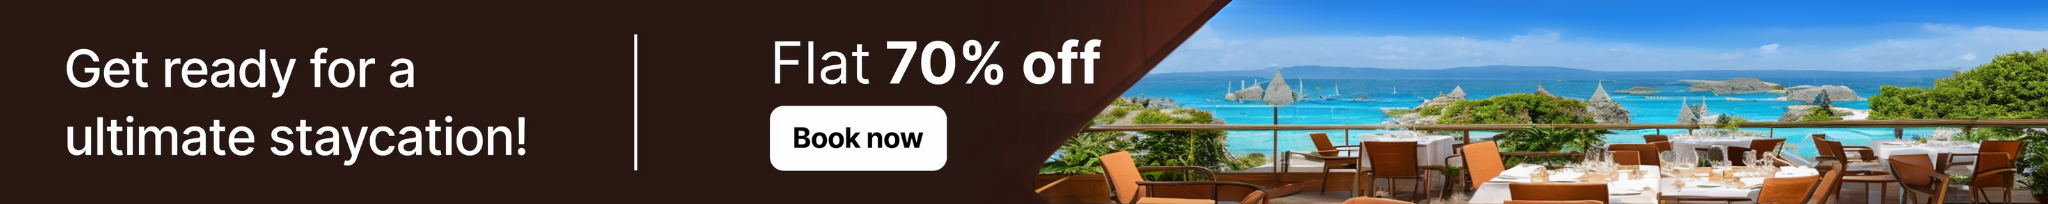
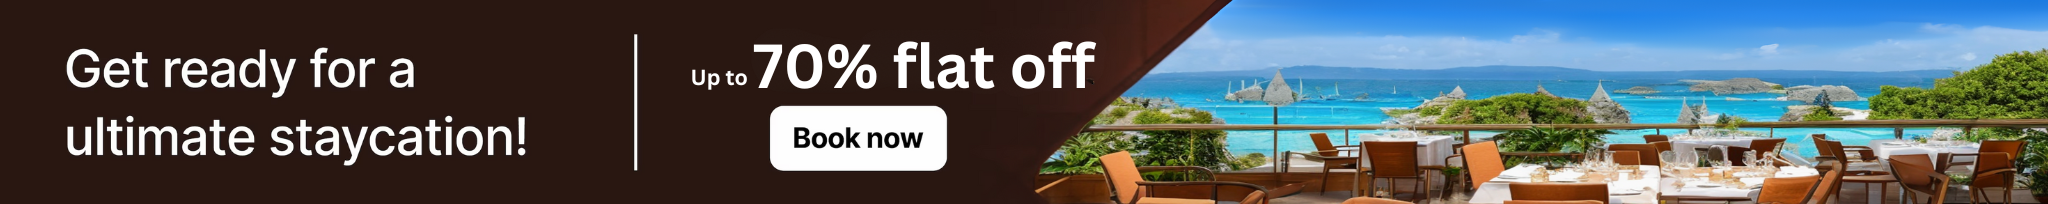
fixed issues

Changed region(s): [[0.3125, 0.1765, 0.5625, 0.4412]]

diff --git a/src/components/Shared/DesktopScrroledNavbar.tsx b/src/components/Shared/DesktopScrroledNavbar.tsx
@@ -16,10 +16,13 @@ interface Props {
   handleIncreaseGuest: (index: number) => void;
   handleDeleteRoom: () => void;
   handleAddRoom: () => void;
+  handleLocationSearch:(event:any)=>void;
   dateFormatter: string;
+  searchedLocation:string;
   RangePicker: any; // You should replace `any` with the actual type of RangePicker
   setFormattedDates: (dates: string[]) => void;
   setGuestDropdownOpen: (isOpen: boolean) => void;
+  setSearchLocation:(location:any)=>void;
   isGuestDropdownOpen: boolean;
   state: {
     totalRooms: number;
@@ -35,6 +38,9 @@ const DesktopScrollNavbar: React.FC<Props> = ({
   handleAddRoom,
   dateFormatter,
   RangePicker,
+  searchedLocation,
+  setSearchLocation,
+  handleLocationSearch,
   setFormattedDates,
   setGuestDropdownOpen,
   isGuestDropdownOpen,
@@ -58,7 +64,7 @@ const DesktopScrollNavbar: React.FC<Props> = ({
 
   const handleScroll = () => {
     const scrollPosition = window.scrollY;
-    const showAtHeight = 200; // Change this to the specific height you want
+    const showAtHeight = 200;
     setShowNavbar(scrollPosition > showAtHeight);
   };
 
@@ -71,28 +77,31 @@ const DesktopScrollNavbar: React.FC<Props> = ({
       showNavbar ? "visible slide-down" : "hidden"
     }`}>
       <div className="h-[70px] flex items-center">
-        <div className="flex items-center justify- mx-[40px] w-full">
+        <div className="flex items-center justify- mx-[20px] w-full">
           <div>
             <h1 className="text-[32px] font-extrabold text-[#f26600]">Roomilo</h1>
           </div>
           {/*----------------- Search bar start---------------*/}
           <div className="h-auto flex flex-col md:flex-row items-center justify-evenly bg-white w-full md:w-full mx-4 border rounded-md font-semibold md:h-[47px]">
-            <div className="flex flex-col md:flex-row items-center flex-grow justify-between flex- border-b md:border-r border-[#969696] md:border-b-0 h-auto md:px-[10px] w-full md:w-auto">
-              <p className=" h-[45px] md:mb-0">
+            <div className="flex flex-col md:flex-row items-center justify-between flex-grow border-b md:border-r border-[#969696] md:border-b-0 h-auto 2xl:px-[10px] w-full md:w-auto">
+              <p className=" h-[45px] 2xl:min-w-[200px] md:mb-0">
                 <input
-                  className="focus:ring-blue-500 focus:outline-none border-none focus:ring-0 focus:border-none w-full h-full p-2.5 placeholder:text-[#757575]"
+                  className="focus:ring-blue-500 focus:outline-none border-none md:w-[150%] focus:ring-0 focus:border-none w-[100%] h-full p-2.5 placeholder:text-[#757575]"
                   type="text"
                   placeholder="Search by city, hotel or neighborhood"
+                  onChange={handleLocationSearch}
                 />
               </p>
-              <p className="flex items-center gap-1 bg-gray-200 rounded-full px-2 py-1 text-[12px] h-fit whitespace-nowrap">
-                <span>
-                  <TfiTarget />
-                </span>
-                <span>Near me</span>
-              </p>
+              {!searchedLocation ? <p className="2xl:min-w-[80px] flex items-center gap-1 bg-gray-200 rounded-full px-2 2xl:py-1 text-[12px] h-fit whitespace-nowrap">
+              <span>
+                <TfiTarget />
+              </span>
+              <span>Near me</span>
+            </p>:<p onClick={()=>setSearchLocation('')} className="min-w-[80px] flex items-center justify-end text-xl font-thin cursor-pointer text-gray-500 h-fit whitespace-nowrap">
+              <span>X</span>
+            </p>}
             </div>
-            <div className="flex p-2.5 gap-1 items-center  justify-start  mx-a border-b md:border-r border-[#969696] md:border-b-0 h-auto md:h-full min-w-[230px] whitespace-nowrap">
+            <div className="flex p-2.5 gap-1 items-center flex-grow  justify-start  mx-a border-b md:border-r border-[#969696] md:border-b-0 h-auto md:h-full w-[150px] 2xl:min-w-[230px] whitespace-nowrap">
               {/* <p>Tue, 4 Jun</p>
             <p>-</p>
             <p>Wed, 5 Jun</p> */}
@@ -102,11 +111,10 @@ const DesktopScrollNavbar: React.FC<Props> = ({
                   border: "none",
                   padding: "0px",
                 }}
-                size="large"
+                size="small"
                 format={dateFormatter}
                 defaultValue={[dayjs(), dayjs().add(1, "day")]}
                 onChange={(dates:any, dateStrings:string) => {
-                  // Check if both start and end dates are selected
                   if (dates && dates[0] && dates[1]) {
                     const formattedDates = [
                       `Start Date: ${dates[0].format("YYYY-MM-DD")}`,
@@ -114,13 +122,12 @@ const DesktopScrollNavbar: React.FC<Props> = ({
                     ];
                     setFormattedDates(formattedDates);
                   } else {
-                    // Clear the formatted dates if no selection is made
                     setFormattedDates([]);
                   }
                 }}
               />
             </div>
-            <div className=" flex p-2.5 gap-1 items-center min-w-[200px] flex-grow h-auto md:h-full w-full md:w-auto whitespace-nowrap relative">
+            <div className=" flex p-2.5 gap-1 items-center min-w-[160px] 2xl:min-w-[200px] flex-grow h-auto md:h-full w-full md:w-auto whitespace-nowrap relative">
               <div
                 onClick={() => setGuestDropdownOpen(!isGuestDropdownOpen)}
                 className="cursor-pointer flex  gap-4 items-center h-auto md:h-full w-full"
@@ -136,7 +143,7 @@ const DesktopScrollNavbar: React.FC<Props> = ({
               <ul
                 className={`${
                   isGuestDropdownOpen ? "opacity-100" : "opacity-0 hidden"
-                } transition-all duration-700 absolute top-16 left-0 bg-white w-full px-2 z-1 rounded shadow-md font-normal text-[14px]`}
+                } transition-all duration-700 absolute top-16 left-0 bg-white 2xl:w-full px-2 z-1 rounded shadow-md font-normal text-[14px]`}
               >
                 <li className="flex items-center justify-around py-4 font-semibold border-b">
                   <p>Rooms</p>

diff --git a/src/components/Searchbar/Searchbar.tsx b/src/components/Searchbar/Searchbar.tsx
@@ -83,6 +83,7 @@ const Searchbar = () => {
   const [state, dispatch] = useReducer(reducer, initialState);
   const [dates, setDates] = useState([]);
   const [formattedDates, setFormattedDates] = useState<string[]>([]);
+  const [searchedLocation, setSearchLocation] = useState<string>('');
   console.log(dates, formattedDates);
 
   const recentSearch = [
@@ -129,40 +130,45 @@ const Searchbar = () => {
     dispatch({ type: "DECREASE_GUEST", payload: index });
   };
 
-  const getTomorrow = () => {
-    return dayjs().add(1, "day");
-  };
+
+  const handleLocationSearch =(e:any)=>{
+    const searchedArea = e.target.value
+    setSearchLocation(searchedArea)
+  }
+
 
   // Format date as "Day, Date Month"
   const dateFormatter = "ddd, D MMM";
 
   return (
     <div>
+      {/* Fix */}
       <div className="py-10 bg-[url(./../assets/images/bannerwallp.jpg)] bg-no-repeat bg-cover bg-bottom flex md:flex-col gap-6 items-center justify-center">
         <h1 className=" text-[32px] text-white font-extrabold">
-          Over 174,000+ Hotels and Homes across 35+ Countries
+        Unparalleled Growth and Excellence of Asia&apos;s Fastest-Growing Hotel Chain!
         </h1>
         {/* ----------Searchbar start------------------- */}
         <div className="h-auto flex flex-col md:flex-row items-center justify-evenly bg-white w-full md:w-[74.5%] mx-4 md:mx-[15.5em] rounded-md font-semibold md:h-[58px]">
           <div className="flex flex-col md:flex-row items-center justify-between flex-grow border-b md:border-r border-[#969696] md:border-b-0 h-auto  p-2.5 md:px-[10px] w-full md:w-auto">
             <p className="w-full md:w-[70%] h-[96%] mb-2 md:mb-0">
               <input
-                className="focus:ring-blue-500 focus:outline-none border-none focus:ring-0 focus:border-none md:min-w-[300px] w-full h-full p-2.5 placeholder:text-[#757575]"
+                className="focus:ring-blue-500 focus:outline-none border focus:ring-0 focus:border-none md:min-w-[300px] md:w-[120%] h-full p-2.5 placeholder:text-[#757575]"
                 type="text"
+                value={searchedLocation}
                 placeholder="Search by city, hotel or neighborhood"
+                onChange={handleLocationSearch}
               />
             </p>
-            <p className="flex items-center gap-1 bg-gray-200 rounded-full px-2 py-1 text-[12px] h-fit whitespace-nowrap">
+            {!searchedLocation ? <p className="flex items-center gap-1 bg-gray-200 rounded-full px-2 py-1 text-[12px] h-fit whitespace-nowrap">
               <span>
                 <TfiTarget />
               </span>
               <span>Near me</span>
-            </p>
+            </p>:<p onClick={()=>setSearchLocation('')}  className=" text-xl font-normal h-fit whitespace-nowrap">
+              <span>X</span>
+            </p>}
           </div>
           <div className="flex p-2.5 gap-1 items-center justify-start min-w-[27.2%] mx-a border-b md:border-r border-[#969696] md:border-b-0 h-auto md:h-full w-full md:w-auto whitespace-nowrap">
-            {/* <p>Tue, 4 Jun</p>
-            <p>-</p>
-            <p>Wed, 5 Jun</p> */}
             <RangePicker
               style={{
                 width: "100%",
@@ -173,15 +179,13 @@ const Searchbar = () => {
               format={dateFormatter}
               defaultValue={[dayjs(), dayjs().add(1, "day")]}
               onChange={(dates, dateStrings) => {
-                // Check if both start and end dates are selected
                 if (dates && dates[0] && dates[1]) {
                   const formattedDates = [
-                    `Start Date: ${dates[0].format("YYYY-MM-DD")}`,
-                    `End Date: ${dates[1].format("YYYY-MM-DD")}`,
+                    `Start Date: ${dates[0]}`,
+                    `End Date: ${dates[1]}`,
                   ];
                   setFormattedDates(formattedDates);
                 } else {
-                  // Clear the formatted dates if no selection is made
                   setFormattedDates([]);
                 }
               }}
@@ -316,8 +320,12 @@ const Searchbar = () => {
         </div>
         {/* --------- Search history End---------------*/}
       </div>
+      {/*-----------------------Scrolled always to navbar--------------------------- */}
       <DesktopScrollNavbar
         RangePicker={RangePicker}
+        setSearchLocation={setSearchLocation}
+        searchedLocation={searchedLocation}
+        handleLocationSearch={handleLocationSearch}
         dateFormatter={dateFormatter}
         handleAddRoom={handleAddRoom}
         handleDecreaseGuest={handleDecreaseGuest}

diff --git a/src/components/Shared/AroundAlwaysSection.tsx b/src/components/Shared/AroundAlwaysSection.tsx
@@ -22,12 +22,12 @@ const AroundAlwaysSection = () => {
                 <div className="flex items-center gap-[26px]">
                   <div className=" transform skew-x-[-30deg] border-r  pr-4 border-gray-400 leading-none ">
                     <div className="transform skew-x-[30deg] pr-[16px]">
-                      <p className="text-[32px] font-semibold ">35+</p>
+                      <p className="text-[32px] font-semibold ">6+</p>
                       <p className="text-[14px] text-gray-600">Countries</p>
                     </div>
                   </div>
                   <div className=" leading-none">
-                    <p className="text-[32px] font-semibold">174,000+</p>
+                    <p className="text-[32px] font-semibold">40,000+</p>
                     <p className="text-[14px] text-gray-600">Hotels & Homes</p>
                   </div>
                 </div>

diff --git a/src/app/pages/home/page.tsx b/src/app/pages/home/page.tsx
@@ -1,4 +1,4 @@
-import AroundAlwaysSection from "@/components/Shared/AroundAlwaysSection";
+"use client";
 import dynamic from "next/dynamic";
 import React from "react";
 
@@ -23,6 +23,12 @@ const ThinDiscountBanner = dynamic(
 const NotifyMe = dynamic(() => import("@/components/Shared/NotifyMe"), {
   suspense: true,
 });
+const AroundAlwaysSection = dynamic(
+  () => import("@/components/Shared/AroundAlwaysSection"),
+  {
+    suspense: true,
+  }
+);
 const Home = () => {
   const releaseDate = new Date(process.env.NEXT_PUBLIC_OPENING_DATE || "");
   return (
@@ -31,7 +37,7 @@ const Home = () => {
       <MaxDiscountBanner />
       <ThinDiscountBanner />
       <NotifyMe />
-      <AroundAlwaysSection/>
+      <AroundAlwaysSection />
       {/* <Countdown releaseDate={releaseDate}/> */}
     </div>
   );

diff --git a/src/app/layout.tsx b/src/app/layout.tsx
@@ -1,7 +1,8 @@
+
 import type { Metadata } from "next";
 import "./globals.css";
 import dynamic from "next/dynamic";
-import { Suspense } from "react";
+import { Suspense} from "react";
 import { AntdRegistry } from "@ant-design/nextjs-registry";
 import DesktopFooter from "@/components/Shared/DesktopFooter";
 
@@ -37,7 +38,7 @@ export default function RootLayout({
             <DesktopTopNav />
             <DistrictList />
             <div>{children}</div>
-            <DesktopFooter/>
+            <DesktopFooter />
           </AntdRegistry>
         </Suspense>
       </body>

diff --git a/src/components/Shared/MaxDiscountBanner.tsx b/src/components/Shared/MaxDiscountBanner.tsx
@@ -1,6 +1,6 @@
 import React from 'react';
 import Image from "next/image";
-import maxDiscount from '../../assets/images/Roomilo.png'
+import maxDiscount from '../../assets/images/maxdiscount.png'
 
 const MaxDiscountBanner = () => {
     return (
